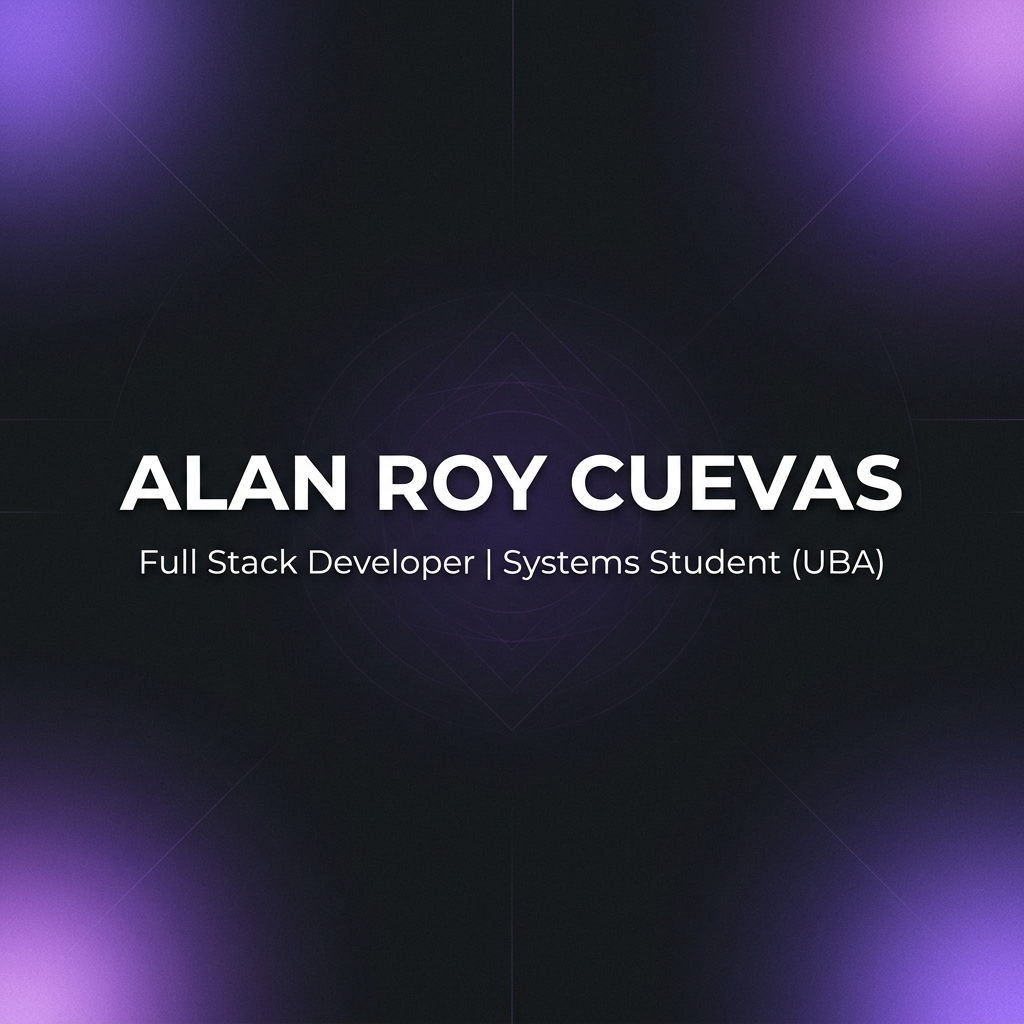
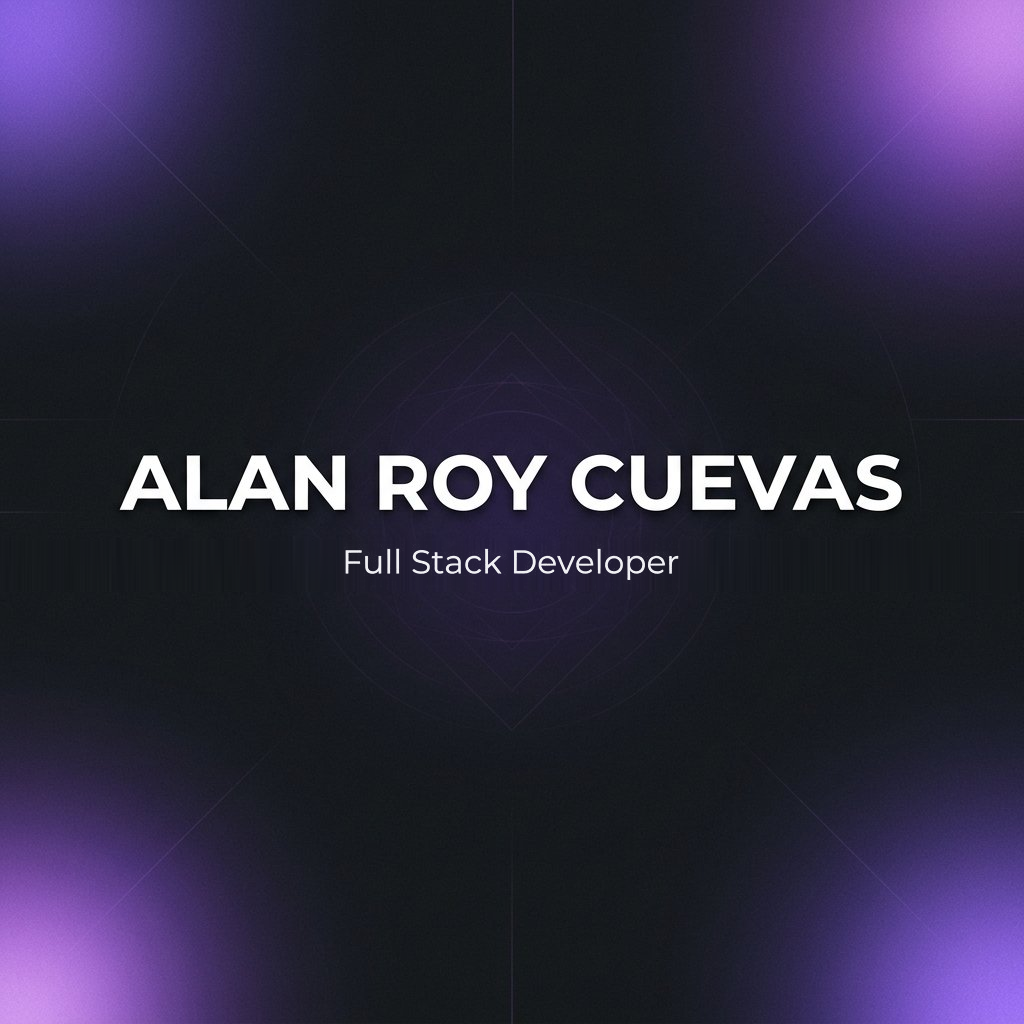
Refactor: update hero badge, modify about me description, and adjust contact section text with i18n support

Changed region(s): [[0.125, 0.5312, 0.875, 0.5625]]

diff --git a/assets/js/main.js b/assets/js/main.js
@@ -169,11 +169,11 @@ const i18n = {
     es: {
         navAbout: 'Sobre Mí', navStack: 'Stack', navProjects: 'Proyectos',
         navExp: 'Experiencia', navContact: 'Contacto',
-        heroBadge: 'Desarrollador Full Stack & Estudiante de Sistemas (UBA)',
+        heroBadge: 'Desarrollador Full Stack',
         heroDesc: 'Diseño y desarrollo soluciones de software seguras, eficientes y visualmente intuitivas. Me especializo en construir desde arquitecturas en tiempo real con Node.js hasta herramientas de procesamiento local con Python, integrando métricas clave y priorizando la privacidad del usuario.',
         heroCta1: 'Ver Proyectos', heroCta2: 'Descargar CV', heroNavCv: 'Descargar CV',
         aboutTitle: 'Sobre Mí',
-        aboutText: '"Soy un estudiante apasionado por la tecnología y el desarrollo de sistemas. Me considero una persona práctica a la que le gusta organizar las cosas para hacer el trabajo más fácil. Tengo facilidad para adaptarme a los cambios, lo que me ayuda a resolver problemas reales y a trabajar bien con los demás."',
+        aboutText: '"Soy un desarrollador apasionado por la tecnología y el análisis de sistemas. Me considero una persona práctica a la que le gusta optimizar procesos para hacer el trabajo más fácil. Tengo facilidad para adaptarme a los cambios, lo que me ayuda a resolver problemas reales y a trabajar bien con los demás."',
         techTitle: 'Stack Tecnológico', techSub: 'Herramientas Principales',
         techDesc: 'Tecnologías y lenguajes que utilizo para construir arquitecturas escalables, seguras y de alto rendimiento.',
         projTitle: 'Proyectos Destacados',
@@ -202,8 +202,8 @@ const i18n = {
         exp2Bullet2: 'Diseñé una arquitectura modular (FastAPI + JavaScript, empaquetada con PyInstaller) que permite sumar herramientas de forma aislada sin acoplar funcionalidades.',
         exp2Bullet3: 'Desarrollé un conjunto de 10 herramientas de manipulación de documentos e incorporé mejoras continuas como soporte multi-formato (HEIC/HEIF), procesamiento batch, modo red para LAN, y UI multi-idioma con modo claro/oscuro.',
         contactTitle: 'Contacto',
-        contactHeadlinePart1: 'Construyamos soluciones ',
-        contactHeadlineSpan: 'eficientes',
+        contactHeadlinePart1: '¿Tenés algún proyecto en mente? ',
+        contactHeadlineSpan: 'Hablemos',
         contactHeadlinePart2: '.',
         contactDesc: 'Estoy abierto a nuevos desafíos técnicos, propuestas laborales o charlas sobre arquitectura de software.',
         contactLabelName: 'Nombre', contactPlaceholderName: 'Tu nombre completo',
@@ -244,11 +244,11 @@ const i18n = {
     en: {
         navAbout: 'About', navStack: 'Stack', navProjects: 'Projects',
         navExp: 'Experience', navContact: 'Contact',
-        heroBadge: 'Full Stack Developer & Systems Student (UBA)',
+        heroBadge: 'Full Stack Developer',
         heroDesc: 'I design and build secure, efficient, and visually intuitive software solutions. I specialize in crafting real-time architectures with Node.js and local processing tools with Python, integrating key metrics and prioritizing user privacy.',
         heroCta1: 'View Projects', heroCta2: 'Download CV', heroNavCv: 'Download CV',
         aboutTitle: 'About Me',
-        aboutText: '"I am a student passionate about technology and systems development. I consider myself a practical person who likes to organize things to make work easier. I adapt well to change, which helps me solve real problems and collaborate effectively with others."',
+        aboutText: '"I am a developer passionate about technology and systems analysis. I consider myself a practical person who likes to optimize processes to make work easier. I adapt well to change, which helps me solve real problems and collaborate effectively with others."',
         techTitle: 'Tech Stack', techSub: 'Core Tools',
         techDesc: 'Technologies and languages I use to build scalable, secure, high-performance architectures.',
         projTitle: 'Featured Projects',
@@ -277,9 +277,9 @@ const i18n = {
         exp2Bullet2: 'Designed a modular architecture (FastAPI + JavaScript, packaged with PyInstaller) that allows adding tools in isolation without coupling functionalities.',
         exp2Bullet3: 'Developed a suite of 10 document manipulation tools and shipped continuous improvements including multi-format support (HEIC/HEIF), batch processing, LAN network mode, and a multi-language UI with light/dark mode.',
         contactTitle: 'Contact',
-        contactHeadlinePart1: 'Let\'s build ',
-        contactHeadlineSpan: 'efficient',
-        contactHeadlinePart2: ' solutions.',
+        contactHeadlinePart1: 'Do you have a project in mind? ',
+        contactHeadlineSpan: 'Let\'s talk',
+        contactHeadlinePart2: '.',
         contactDesc: 'I\'m open to new technical challenges, job proposals, or conversations about software architecture.',
         contactLabelName: 'Name', contactPlaceholderName: 'Your full name',
         contactLabelEmail: 'Email', contactPlaceholderEmail: 'you@email.com',

diff --git a/index.html b/index.html
@@ -311,19 +311,13 @@ SSSSSSSSSSSSSSSSSSSSSSSSSSS##@##SSSSSSSSSSSSSSSSSSSSSSSSSSSSSSSS%%%%%%%S%%%?%%?%
 
         <div class="z-10 max-w-4xl relative">
             <span
-                class="hero-stagger font-headline text-primary tracking-[0.3em] uppercase mb-4 block text-xs">Desarrollador
-                Full Stack &amp; Estudiante de Sistemas (UBA)</span>
+                class="hero-stagger font-headline text-primary tracking-[0.4em] uppercase mb-8 block text-[10px] md:text-xs">Desarrollador Full Stack</span>
             <h1
-                class="hero-stagger font-headline text-6xl md:text-8xl font-bold text-white tracking-tighter mb-8 leading-none">
+                class="hero-stagger font-headline text-6xl md:text-8xl font-bold text-white tracking-tighter mb-16 leading-none">
                 ALAN ROY <span
                     class="text-transparent bg-clip-text bg-gradient-to-r from-primary-container to-primary">CUEVAS</span>
             </h1>
-            <p
-                class="hero-stagger font-body text-lg md:text-xl text-on-surface-variant max-w-2xl mx-auto mb-12 font-light leading-relaxed">
-                Diseño y desarrollo soluciones de software seguras, eficientes y visualmente intuitivas. Me especializo
-                <span id="txt-hero-description">Diseño y desarrollo soluciones de software seguras, eficientes y visualmente intuitivas. Me especializo en construir desde arquitecturas en tiempo real con Node.js hasta herramientas de procesamiento local con Python, integrando métricas clave y priorizando la privacidad del usuario.</span>
-            </p>
-            <div class="hero-stagger flex flex-col sm:flex-row gap-4 md:gap-6 justify-center">
+            <div class="hero-stagger flex flex-col sm:flex-row gap-6 md:gap-8 justify-center">
                 <a href="#projects"
                     class="bg-gradient-to-br from-primary-container to-primary text-on-primary px-10 py-4 rounded-lg font-headline font-bold text-sm uppercase tracking-widest hover:scale-105 transition-all shadow-[0_0_20px_rgba(138,43,226,0.2)] shadow-[inset_0_1px_0_rgba(255,255,255,0.2)] inline-block">
                     <span id="txt-btn-projects">Ver Proyectos</span>
@@ -353,8 +347,8 @@ SSSSSSSSSSSSSSSSSSSSSSSSSSS##@##SSSSSSSSSSSSSSSSSSSSSSSSSSSSSSSS%%%%%%%S%%%?%%?%
             </h2>
             <div class="max-w-4xl mx-auto">
                 <p class="reveal delay-200 font-body text-xl md:text-2xl text-on-surface leading-relaxed font-light">
-                    "Soy un estudiante apasionado por la tecnología y el desarrollo de sistemas. Me considero una
-                    persona práctica a la que le gusta organizar las cosas para hacer el trabajo más fácil. Tengo
+                    "Soy un desarrollador apasionado por la tecnología y el análisis de sistemas. Me considero una
+                    persona práctica a la que le gusta optimizar procesos para hacer el trabajo más fácil. Tengo
                     facilidad para adaptarme a los cambios, lo que me ayuda a resolver problemas reales y a trabajar
                     bien con los demás."
                 </p>
@@ -779,7 +773,7 @@ SSSSSSSSSSSSSSSSSSSSSSSSSSS##@##SSSSSSSSSSSSSSSSSSSSSSSSSSSSSSSS%%%%%%%S%%%?%%?%
                         class="font-headline text-on-surface-variant text-sm tracking-[0.4em] uppercase mb-8">Contacto
                     </h2>
                     <p class="font-headline text-5xl md:text-6xl text-white font-bold mb-12 leading-tight">
-                        <span id="contact-headline-part1">Construyamos soluciones </span><span id="contact-headline-span" class="text-primary">eficientes</span><span id="contact-headline-part2">.</span>
+                        <span id="contact-headline-part1">¿Tenés algún proyecto en mente? </span><span id="contact-headline-span" class="text-primary">Hablemos</span><span id="contact-headline-part2">.</span>
                     </p>
                     <p id="contact-desc" class="font-body text-on-surface-variant text-xl mb-12">
                         Estoy abierto a nuevos desafíos técnicos, propuestas laborales o charlas sobre arquitectura de
